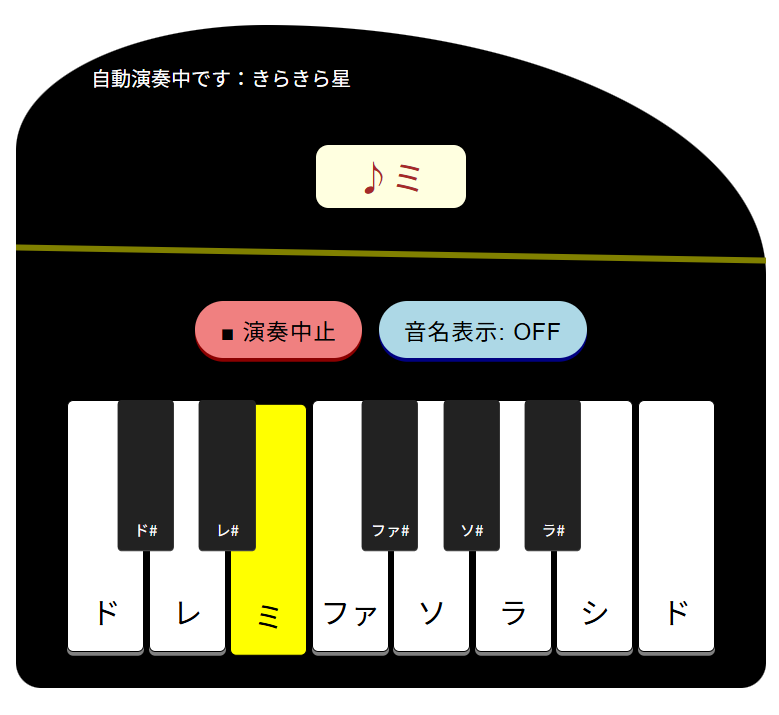
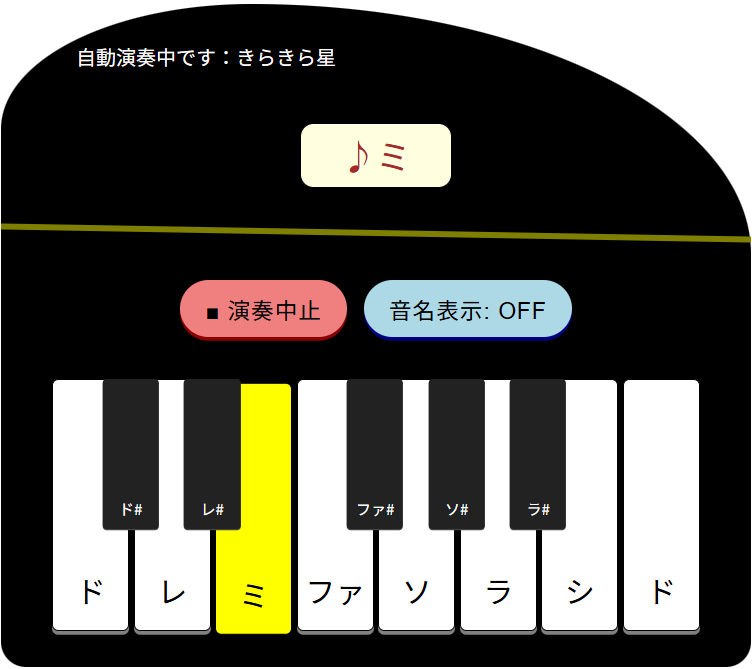
7/27

diff --git a/works/communication_games/index.html b/works/communication_games/index.html
@@ -34,87 +34,189 @@
             <section>
                 <h3 id="cooperative">協力 / 非協力 ゲーム</h3>
                 <div class="container">
-                    <a href="cooperative.html">
-                        <img class="work-img" src="../../images/cooperative.jpg" alt="協力 / 非協力 ゲーム" />
-                    </a>
+                    <div class="poster">
+                        <a href="cooperative.html">
+                            <img class="work-img" src="../../images/cooperative.jpg" alt="協力 / 非協力 ゲーム" />
+                        </a>
+                    </div>
                     <div class="rule">
-                        <ol>
-                            <li>
-                                ゲーム概要
-                                <p>
-                                    あなたは小さな町工場ではたらく社員。工場には古い機械が一つだけあり、常にだれかが稼働させないと故障してしまう。
-                                </p>
-                                <p>
-                                    製品の納期が10日後に迫る中、工場長から「働き方改革により、有給休暇を取得せよ」との通達が。
-                                </p>
-                                <p>
-                                    社員たちは、機械の稼働を止めることなく、有給休暇を取得しながら納期に間に合わせなけれなならない―――。
-                                </p>
-                            </li>
-                            <li>
-                                遊び方・ルールなど
-                                <ul>
-                                    <li>推奨人数: 1チーム3～5人</li>
-                                    <li>各プレイヤーは「協力」「非協力」のどちらかを選んで投票します。「協力」「非協力」の投票数によって「機械の稼働ステータス」に変動が起こります。</li>
-                                    <li>機械の稼働ステータスは「-3」～「+3」の間で変動し、「-3」を下回ると「故障」となります。</li>
-                                    <li>機械が故障した場合、そのターンの初めからやり直しになり、各プレイヤーは故障回数に応じた減点を受けます。</li>
-                                    <li>10ターン経過後、<span class="bold">もっとも「非協力」に投票したプレイヤー</span>(つまり、休暇を取得したプレイヤー)が勝利となります。</li>
-                                </ul>
-                            </li>
-                            <li>
-                                作者コメント
-                                <p>
-                                    このゲームは「協力」しながら「駆け引き」が求められるという、とても新しい感覚のゲームです。「機械を故障させない」という共通の目的がありながら、「1回でも多く非協力に投票する」という個別の目標があるからです。
-                                </p>
-                                <p>
-                                    機械が故障しそうになったら協力を呼び掛けて稼働ステータスを戻さなければいけませんが、そこで相手の出方をうかがいながら、いかに「非協力」を選んで点数を稼いでいくか、その駆け引きがとても面白いです。
-                                </p>
-                                <p>
-                                    ちなみに私は欲をかきすぎて、機械を2回も故障させてしまいました...。最後に勝つのは協力すべき場面でしっかりと「協力」に投票できる人なのかもしれません。
-                                </p>
-                            </li>
-                        </ol>
+                        <h5>ゲーム概要</h5>
+                        <p>
+                            あなたは小さな町工場ではたらく社員。工場には古い機械が一つだけあり、常にだれかが稼働させないと故障してしまう。
+                        </p>
+                        <p>
+                            製品の納期が10日後に迫る中、工場長から「働き方改革により、有給休暇を取得せよ」との通達が。
+                        </p>
+                        <p>
+                            社員たちは、機械の稼働を止めることなく、有給休暇を取得しながら納期に間に合わせなければならない―――。
+                        </p>
+                        <h5>遊び方・ルールなど</h5>
+                        <ul>
+                            <li>推奨人数: 1チーム3～5人</li>
+                            <li>各プレイヤーは「協力」「非協力」のどちらかを選んで投票します。「協力」「非協力」の投票数によって「機械の稼働ステータス」に変動が起こります。</li>
+                            <li>機械の稼働ステータスは「-3」～「+3」の間で変動し、「-3」を下回ると「故障」となります。</li>
+                            <li>機械が故障した場合、そのターンの初めからやり直しになり、各プレイヤーは故障回数に応じた減点を受けます。</li>
+                            <li>10ターン経過後、<span class="bold">もっとも「非協力」に投票したプレイヤー</span>(つまり、休暇を取得したプレイヤー)が勝利となります。</li>
+                        </ul>
+                        <h5>作者コメント</h5>
+                        <p>
+                            このゲームは「協力」しながら「駆け引き」が求められるという、とても新しい感覚のゲームです。「機械を故障させない」という共通の目的がありながら、「1回でも多く非協力に投票する」という個別の目標があるからです。
+                        </p>
+                        <p>
+                            機械が故障しそうになったら協力を呼び掛けて稼働ステータスを戻さなければいけませんが、そこで相手の出方をうかがいながら、いかに「非協力」を選んで点数を稼いでいくか、その駆け引きがとても面白いです。
+                        </p>
+                        <p>
+                            ちなみに私は欲をかきすぎて、機械を2回も故障させてしまいました...。最後に勝つのは協力すべき場面でしっかりと「協力」に投票できる人なのかもしれません。
+                        </p>
                     </div>
                 </div>
             </section>
             <section>
                 <h3 id="othello">アキネーターオセロ</h3>
                 <div class="container">
-                    <a href="othello.html">
-                        <img class="work-img" src="../../images/othello.jpg" alt="アキネーターオセロ" />
-                    </a>
+                    <div class="poster">
+                        <a href="othello.html">
+                            <img class="work-img" src="../../images/othello.jpg" alt="アキネーターオセロ" />
+                        </a>
+                    </div>
                     <div class="rule">
-                        <ol>
+                        <h5>ゲーム概要</h5>
+                        <p>
+                            「質問力」×「オセロ」が夢の共演！
+                        </p>
+                        <p>
+                            マスを取るためには、Yes / No クエスチョン(クローズドクエスチョン)と Yes / No で答えられない質問(オープンクエスチョン)を使い分け、お題を当てなければならない。
+                        </p>
+                        <p>
+                            しかも、四隅はとても難易度の高い「水平思考クイズ」をクリアしなければ取ることはできない。
+                        </p>
+                        <p>
+                            質問力・オセロの実力・水平思考力。あらゆる力を駆使し、勝利をつかむのはどちらのチームだ！？
+                        </p>
+                        <h5>遊び方・ルールなど</h5>
+                        <ul>
+                            <li>推奨人数: 1チーム3人以上</li>
+                            <li>取りたいマスを選択します。</li>
+                            <li>マスを選択すると、お題(例: 「くだものの名前」)が出題されます。</li>
+                            <li>チーム内でお題の回答者を決定します。回答者以外は質問者となります。</li>
+                            <li>回答者だけがあらかじめお題に対する解答(例: いちご)を知ることができます。</li>
+                            <li>質問者は2分以内にクローズドクエスチョン(例: 「赤いですか？」)を用いて、その回答からお題が何かを当てなければなりません。</li>
                             <li>
-                                ゲーム概要
-                                <p>
-                                    「質問力」×「オセロ」が夢の共演！
-                                </p>
-                                <p>
-                                    マスを取るためには、Yes / No クエスチョン(クローズドクエスチョン)と Yes / No で答えられない質問(オープンクエスチョン)を使い分け、お題を当てなければいけません。
-                                </p>
-                                <p>
-                                    しかも、四隅はとても難易度の高い「水平思考クイズ」をクリアしなければ取ることはできない。
-                                </p>
-                                <p>
-                                    質問力・オセロの実力・水平思考力。あらゆる力を集結させ、勝利をつかむのはどちらのチームだ！？
-                                </p>
+                                オープンクエスチョン(例: 「どのような栽培方法ですか？」)は1ゲームにつき1回のみ使用できます。
+                                <p>(「水平思考クイズ」に挑戦する場合、オープンクエスチョンを使うことはできません)</p>
                             </li>
-                            <li>
-                                遊び方・ルールなど
-                            </li>
-                            <li>
-                                作者コメント
-                            </li>
-                        </ol>
+                            <li>みごと、お題をクリアできればそのマスを取ることができます。</li>
+                            <li>石の置き方・ひっくり返し方は通常のオセロのルールに準じます。</li>
+                            <li>特別要素: 各チームは対局中に3回まで、すでに石の置かれたマスのうち1つを選び、石を取り除くことができます。</li>
+                        </ul>
+                        <h5>作者コメント</h5>
+                        <p>
+                            このゲームはコミュニケーション上の目的(おもに質問力の実践)を達成することはできたものの、ゲーム性の面でたくさんの課題が見つかる作品でした。
+                        </p>
+                        <p>
+                            実施当初は
+                        </p>
+                            <ul>
+                                <li>5×5マスの盤面</li>
+                                <li>初期配置なし</li>
+                                <li>石を取り除けるのは1回まで</li>
+                            </ul>
+                        <p>
+                            という仕様でした。
+                        </p>
+                        <p>
+                            オセロにおいて重要な「挟んでひっくり返す」ということが起きにくいだけでなく、石を取り除くことが1回しかできないため、使うタイミングが難しく、プレイヤー間の駆け引きや盤面の予想などオセロならではの面白さを十分に引き出せていませんでした。
+                        </p>
+                        <p>
+                            そこで有志たちの間で課題や反省点を洗い出し、コミュニケーション要素はそのままに、ゲーム性を高めてもっと面白いものにしよう、という話し合いを経て、現在の6×6マス盤面、初期配置あり(各チーム2枚ずつ)、3回まで石を取り除ける、というルールに落ち着きました。
+                        </p>
                     </div>
                 </div>
             </section>
             <section>
                 <h3 id="draft">ドラフトしりとリレー</h3>
+                <div class="container">
+                    <div class="poster">
+                        <img class="work-img unpublished" src="../../images/draft_shiritori.jpg" alt="ドラフトしりとリレー" />
+                        <span class="unpublished-label">Coming Soon...</span>
+                    </div>
+                    <div class="rule">
+                        <h5>ゲーム概要</h5>
+                        <p>
+                            ありそうでなかった「<span class="bold">ひらがなのドラフト指名</span>」！
+                        </p>
+                        <p>
+                            チーム対抗戦形式のしりとりリレーでその速さを競うゲームです。ただし、チームが使う文字はドラフト制で決定！
+                        </p>
+                        <p>
+                            ひらがなだからこそ覚えやすく遊びやすい。ひらがなだからこそ戦略の幅が広く奥深い。
+                        </p>
+                        <p>
+                            シンプルイズベストの最高到達点を目指しました！
+                        </p>
+                        <h5>遊び方・ルールなど</h5>
+                        <ul>
+                            <li>推奨人数: 8人～14人</li>
+                        </ul>
+                        <ol>
+                            <li>通常モード(ルールを覚えてもらうための練習用モード)</li>
+                            <ul>
+                                <li>チームの人数+1文字がランダムで決定されます。</li>
+                                <li>30秒のシンキングタイムをとります。</li>
+                                <li>
+                                    90秒以内にホワイトボードに単語を書いて、しりとりリレーを完成させましょう！文字は誰が何をどの順番で使ってもOK！
+                                    <p>
+                                        例: 「し」「ま」「も」「と」の場合<br />
+                                        「<span class="bold">し</span>」まう「<span class="bold">ま</span>」り「<span class="bold">も</span>」るもっ「<span class="bold">と</span>」
+                                    </p>
+                                </li>
+                                <li>できた単語の数×1点をポイントとして獲得します。両チームともにリレーが完成した場合は、早かったほうに追加で1ポイント！</li>
+                            </ul>
+                            <li>ドラフトモード(お互いの戦略をぶつけ合う本気用モード)</li>
+                            <ul>
+                                <li>
+                                    ランダム文字選択フェーズ: 
+                                    <p>
+                                        各チームはランダムで選ばれた1文字を必ず使います。
+                                    </p>
+                                </li>
+                                <li>
+                                    使用禁止フェーズ:
+                                    <p>
+                                        各チームは2文字ずつ、使用禁止する文字を選びます。選ばれた合計4文字は、そのラウンド中どちらのチームも使用できません。
+                                    </p>
+                                </li>
+                                <li>
+                                    文字選択フェーズ:
+                                    <p>
+                                        ランダムで選ばれた文字と使用禁止になった文字以外から、各チーム交互に1文字ずつ選びます。<br />
+                                        このとき、相手のチームが選んだ文字を重複して選ぶことはできません。
+                                    </p>
+                                </li>
+                                <li>以降同じです</li>
+                                <li>獲得したポイントの低かったチームが、次のラウンドで先攻/後攻の選択権を得ることができます。</li>
+                            </ul>
+                        </ol>
+                    </div>
+                </div>
             </section>
             <section>
                 <h3 id="nyancensus">にゃんセンサスゲーム</h3>
+                <div class="container">
+                    <div class="poster">
+                        <img class="work-img unpublished" src="../../images/nyancensus.jpg" alt="にゃんセンサスゲーム" />
+                        <span class="unpublished-label">Coming Soon...</span>
+                    </div>
+                    <div class="rule">
+                        <h5>ゲーム概要</h5>
+                        <p>
+                            「え？私が新しいねこカフェの店長に！？」
+                        </p>
+                        <p>
+                            新しくねこカフェを経営することになったあなた。個性豊かな「ねこ」たち、ねこたちの大好きな「ごはん」「おやつ」、ねこたちの生活に欠かせない「グッズ」「おもちゃ」を組み合わせて、理想的なねこカフェを目指しましょう！
+                        </p>
+                    </div>
+                </div>
             </section>
         </main>
     </body>

diff --git a/works/index.html b/works/index.html
@@ -247,7 +247,7 @@
                     <div class="card">
                         <h4>制作目的</h4>
                         <p>
-                            有志活動としてコミュニケーションゲームの企画・運営を行っています。UI Dictionary(上述)の制作経験を経て、「自身が制作したものを通じて、より多くの利用者に充実した参加体験を持ってほしい」と思うようになりました。
+                            有志活動としてコミュニケーションゲームの企画・運営を行っています。UI Dictionary(上述)の制作経験を経て、「自身が制作したものを通じて、より多くの利用者に充実した参加体験を提供したい」という気持ちが強くなり、簡易的なWebアプリの制作を始めました。
                         </p>
                     </div>
                     <div class="card">

diff --git a/css/communication_games.css b/css/communication_games.css
@@ -3,18 +3,43 @@
 
 .container {
     display: flex;
+    gap: var(--space-x-small);
     margin: 0 auto;
 }
 
-section > .container > a {
+.poster {
+    align-self: flex-start;
     display: block;
     margin: 0 auto;
-    max-width: 30%;
+    position: relative;
+    width: 25%;
 }
 
-section > .container > a img {
+.poster a img {
     display: block;
     width: 100%;
+}
+
+img.unpublished {
+    cursor: default;
+    opacity: var(--opacity-unpublished);
+    pointer-events: none;
+}
+
+.unpublished-label {
+    font-size: var(--font-size-large);
+    left: 50%;
+    position: absolute;
+    transform: translate(-50%, -50%) rotate(-10deg);
+    top: 50%;
+}
+
+.rule {
+    width: 75%;
+}
+
+.rule p {
+    font-size: var(--font-size-small);
 }
 
 ul {

diff --git a/css/works.css b/css/works.css
@@ -1,7 +1,7 @@
 @import url(variables.css);
 
 section > a {
-    display: block;
+    display: inline-block;
     width: 40%;
     margin: 0 auto;
 }
@@ -11,15 +11,12 @@ section > a img {
     width: 100%;
 }
 
-img {
-    margin-bottom: var(--space-medium);
-}
-
 .card-wrapper {
     display: flex;
     flex-wrap: wrap;
     gap: var(--space-small);
     justify-content: center;
+    margin-top: var(--space-medium);
     max-width: 100%;
 }
 

diff --git a/css/common.css b/css/common.css
@@ -150,6 +150,10 @@ ol {
     transform: scale(1.25);
 }
 
+h5 {
+    font-size: var(--font-size-base);
+}
+
 footer {
     background-color: var(--primary-background-color);
     color: var(--primary-font-color);

diff --git a/css/variables.css b/css/variables.css
@@ -11,6 +11,7 @@
     --header-height: 64px;
     --menu-width: 80px;
     --opacity-base: .6;
+    --opacity-unpublished: .2;
     --page-width: 1280px;
     --work-width: 600px;
 
